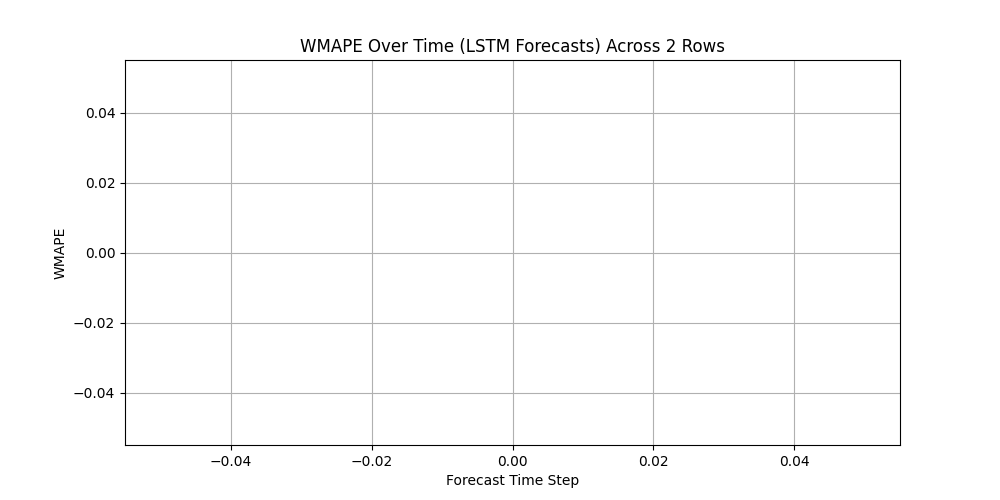
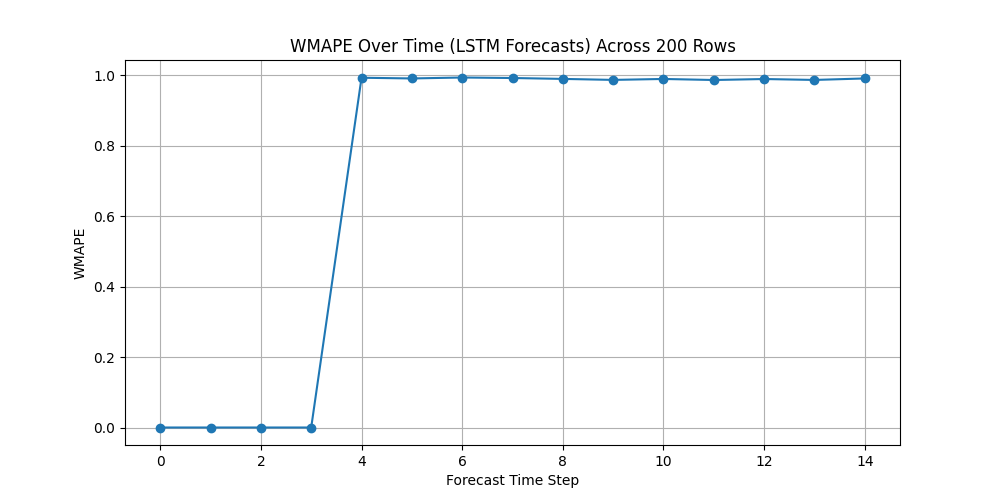
Slight improvement made, will now look at parralelisation and perhaps some form of vectorisation

diff --git a/Machine_learning_models/LSTM.py b/Machine_learning_models/LSTM.py
@@ -19,10 +19,11 @@ TEST_PATH = '/Users/mahfuz/Final_project/Final_repo/DataSetsCBS/TestingData.csv'
 
 
 def wmape(y_true, y_pred):
-    denom = abs(y_true).sum()
+    # Use np.nansum to sum while ignoring NaNs
+    denom = np.nansum(np.abs(y_true))
     if denom == 0:
-        return np.nan  # or return 0, or some other value
-    return (abs(y_true - y_pred)).sum() / denom
+        return np.nan
+    return np.nansum(np.abs(y_true - y_pred)) / denom
 
 
 def load_data(train_path=TRAIN_PATH, test_path=TEST_PATH):
@@ -65,44 +66,58 @@ test_time_series_cols = test.columns[3:]
 n_steps = 4         # number of time steps per input
 n_features = 1      # univariate data
 results = []
-NO_ITERATIONS = 2
+NO_ITERATIONS = 200
 # Start timer before processing the rows
 start_time = time.time()
 # for i in range(len(train)):
-for i in range(NO_ITERATIONS):
+for i in range(65, 68, 1):
     # ---- Training on row i from training set ----
     train_series = train[train_time_series_cols].iloc[i].values
-    X_train, y_train = split_sequence(train_series.tolist(), n_steps)
-    X_train = X_train.reshape((X_train.shape[0], X_train.shape[1], n_features))
-
-    # Define and compile the LSTM model
-    model = Sequential()
-    model.add(LSTM(50, activation='relu', input_shape=(n_steps, n_features)))
-    model.add(Dense(1))
-    model.compile(optimizer='adam', loss='mse')
-
-    # Fit the model on this row's training data
-    model.fit(X_train, y_train, epochs=200, verbose=0)
+    # Check if the training series is constant
+    if np.std(train_series) < 1e-6:
+        # If constant, no model training needed: forecast the constant value
+        constant_val = train_series[0]
+        X_train, y_train = split_sequence(train_series.tolist(), n_steps)
+        X_train = X_train.reshape(
+            (X_train.shape[0], X_train.shape[1], n_features))
+        # Print a warning message
+        print(
+            f"Row {i} training data is constant. Using constant value {constant_val} for predictions.")
+        model_trained = None
+    else:
+        X_train, y_train = split_sequence(train_series.tolist(), n_steps)
+        X_train = X_train.reshape(
+            (X_train.shape[0], X_train.shape[1], n_features))
+        # Define and compile the LSTM model
+        model = Sequential()
+        model.add(LSTM(50, activation='relu', input_shape=(n_steps, n_features)))
+        model.add(Dense(1))
+        model.compile(optimizer='adam', loss='mse')
+        # Fit the model on this row's training data
+        model.fit(X_train, y_train, epochs=200, verbose=0)
+        model_trained = model
 
     # ---- Iterative Prediction for the full test horizon for row i ----
     test_series = test[test_time_series_cols].iloc[i].values
     horizon = len(test_series)  # total number of time steps in test row
-    # The number of predictions we'll generate:
-    n_predictions = horizon - n_steps
+    n_predictions = horizon - n_steps  # number of predictions to generate
 
-    print(f"Row {i}: horizon = {horizon}, n_predictions = {n_predictions}")
     # Use the first n_steps values from the test row as the initial window:
     current_input = test_series[:n_steps].copy()
     predictions = []
     for j in range(n_predictions):
-        # Reshape to [1, n_steps, n_features]
-        x_input = current_input.reshape((1, n_steps, n_features))
-        yhat = model.predict(x_input, verbose=0)
-        predictions.append(yhat[0][0])
+        if model_trained is None:
+            # If the training data was constant, simply use the constant value
+            pred = constant_val
+        else:
+            x_input = current_input.reshape((1, n_steps, n_features))
+            yhat = model_trained.predict(x_input, verbose=0)
+            pred = yhat[0][0]
+        predictions.append(pred)
         # Update the window: drop the first value and append the new prediction
-        current_input = np.concatenate([current_input[1:], [yhat[0][0]]])
+        current_input = np.concatenate([current_input[1:], [pred]])
+
     # Store the results for this row:
-    # Actual values from the test series corresponding to the forecast period:
     actual = test_series[n_steps:]
     results.append({'row': i, 'forecast': np.array(
         predictions), 'actual': np.array(actual)})
@@ -111,8 +126,8 @@ for i in range(NO_ITERATIONS):
 # End timer after processing all rows
 end_time = time.time()
 total_time = end_time - start_time
-average_time = total_time/NO_ITERATIONS
-total_predicted_time = average_time*len(train)
+average_time = total_time / NO_ITERATIONS
+total_predicted_time = average_time * len(train)
 hours, minutes, secs = seconds_to_hms(total_time)
 hours_avg, minutes_avg, secs_avg = seconds_to_hms(average_time)
 hours_predicted, minutes_predicted, secs_predicted = seconds_to_hms(
@@ -123,53 +138,38 @@ print("Total time taken to process dataset: {} hours, {} minutes, {:.2f} seconds
 print("Average time taken per row: {} hours, {} minutes, {:.2f} seconds".format(
     hours_avg, minutes_avg, secs_avg))
 print("Total time to predict entire test set: {} hours, {} minutes, {:.2f} seconds".format(
-    hours_predicted, minutes_predicted, secs_predicted)
-)
+    hours_predicted, minutes_predicted, secs_predicted))
 
 
 # ---------------- Graphing ----------------
 
-# # Graph 1: Forecast vs Actual for the first row (row 0)
-# first_result = results[0]
-# time_index = list(range(n_steps, n_steps + len(first_result['forecast'])))
-# plt.figure(figsize=(10, 5))
-# plt.plot(time_index, first_result['actual'], label='Actual', marker='o')
-# plt.plot(time_index, first_result['forecast'],
-#          label='Forecast (LSTM)', marker='x')
-# plt.xlabel("Time Step")
-# plt.ylabel("Value")
-# plt.title("LSTM Forecast vs Actual for Row 0")
-# plt.legend()
-# plt.savefig(
-#     '/Users/mahfuz/Final_project/Final_repo/Diagrams/LSTM_forecast_selected_series.png')
-# plt.show()
+# Graph 1: Forecast vs Actual for the first row (row 0)
+first_result = results[0]
+time_index = list(range(n_steps, n_steps + len(first_result['forecast'])))
+plt.figure(figsize=(10, 5))
+plt.plot(time_index, first_result['actual'], label='Actual', marker='o')
+plt.plot(time_index, first_result['forecast'],
+         label='Forecast (LSTM)', marker='x')
+plt.xlabel("Time Step")
+plt.ylabel("Value")
+plt.title("LSTM Forecast vs Actual for Row 0")
+plt.legend()
+plt.savefig(
+    '/Users/mahfuz/Final_project/Final_repo/Diagrams/LSTM_forecast_selected_series.png')
+plt.show()
 
 # Graph 2: WMAPE over time across the 200 rows
 # Assuming all rows have the same forecast horizon
 H = len(results[0]['forecast'])
-print(H)
-print("Length of first test series:", len(
-    test[test_time_series_cols].iloc[0].values))
-
 wmape_by_time = []
 for j in range(H):
     all_actual = np.array([res['actual'][j] for res in results])
     all_forecast = np.array([res['forecast'][j] for res in results])
     denom = abs(all_actual).sum()
-    print(
-        f"Time step {j}, denom = {denom}, actual={all_actual}, forecast={all_forecast}")
-    if denom == 0:
-        print("Denominator is zero => WMAPE is NaN.")
     wmape_val = wmape(all_actual, all_forecast)
     wmape_by_time.append(wmape_val)
 
-print("Row 0 actual:", results[0]['actual'])
-print("Row 0 forecast:", results[0]['forecast'])
-print("Row 1 actual:", results[1]['actual'])
-print("Row 1 forecast:", results[1]['forecast'])
-print("Row 1 training data:", train[train_time_series_cols].iloc[1].values)
-print("len(wmape_by_time) =", len(wmape_by_time))
-print("x-axis length =", len(list(range(n_steps, n_steps + H))))
+
 xvals = []
 yvals = []
 for idx, val in enumerate(wmape_by_time):
